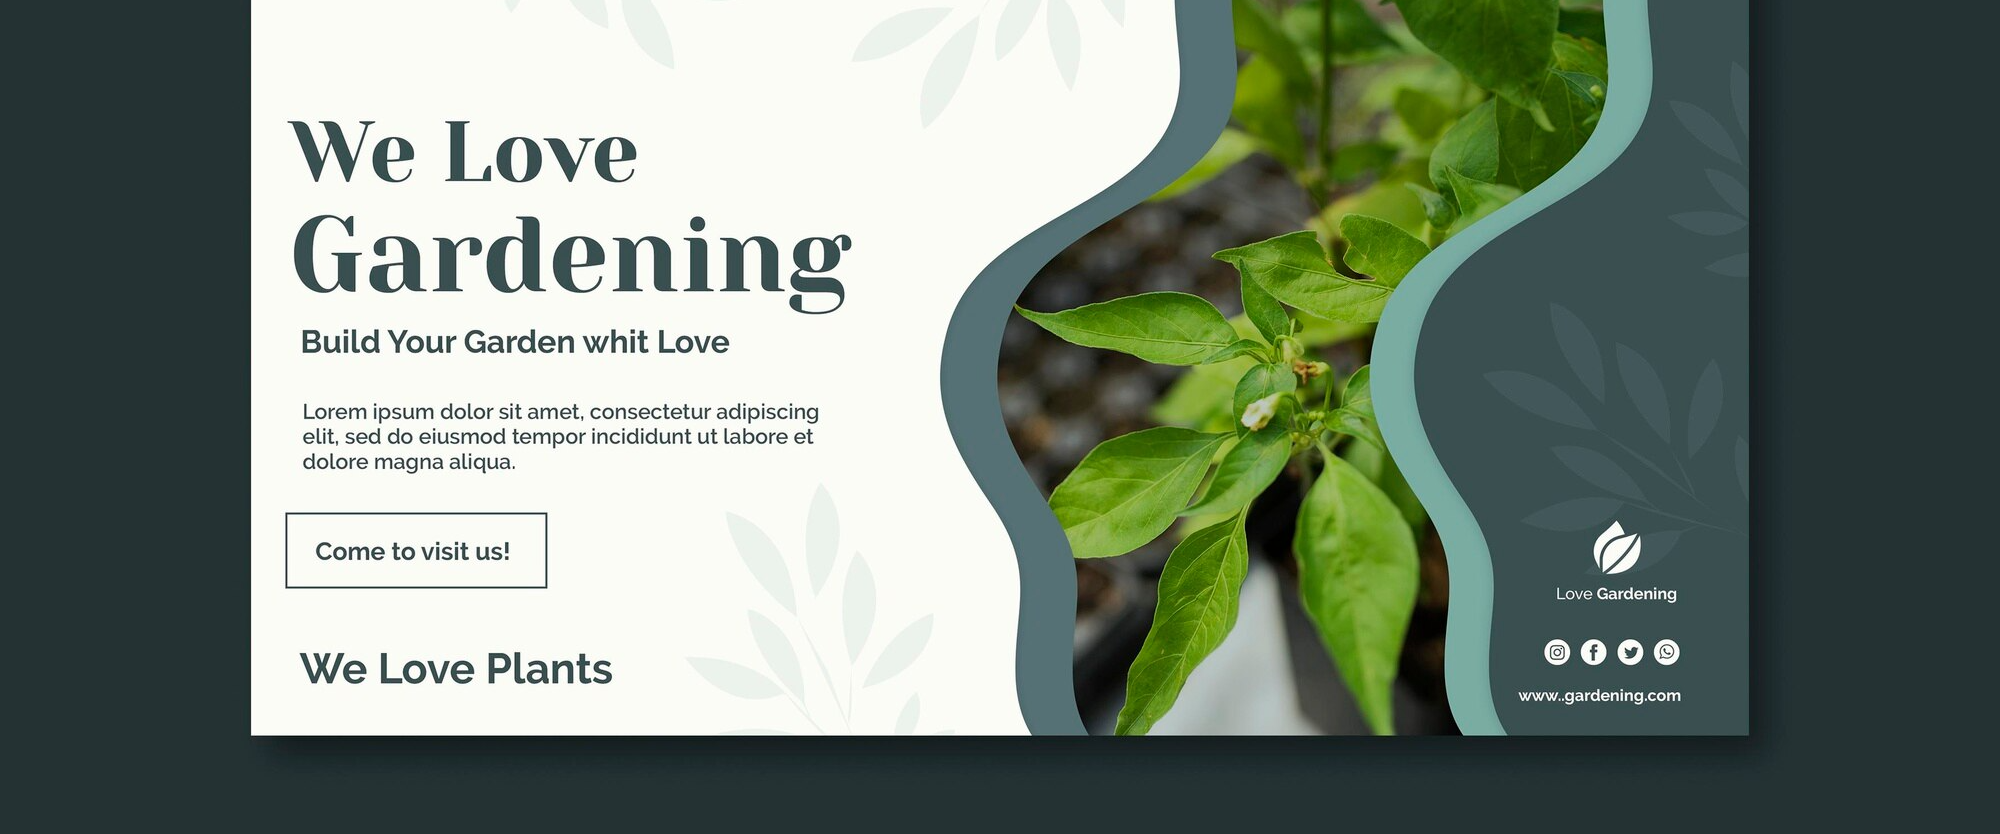
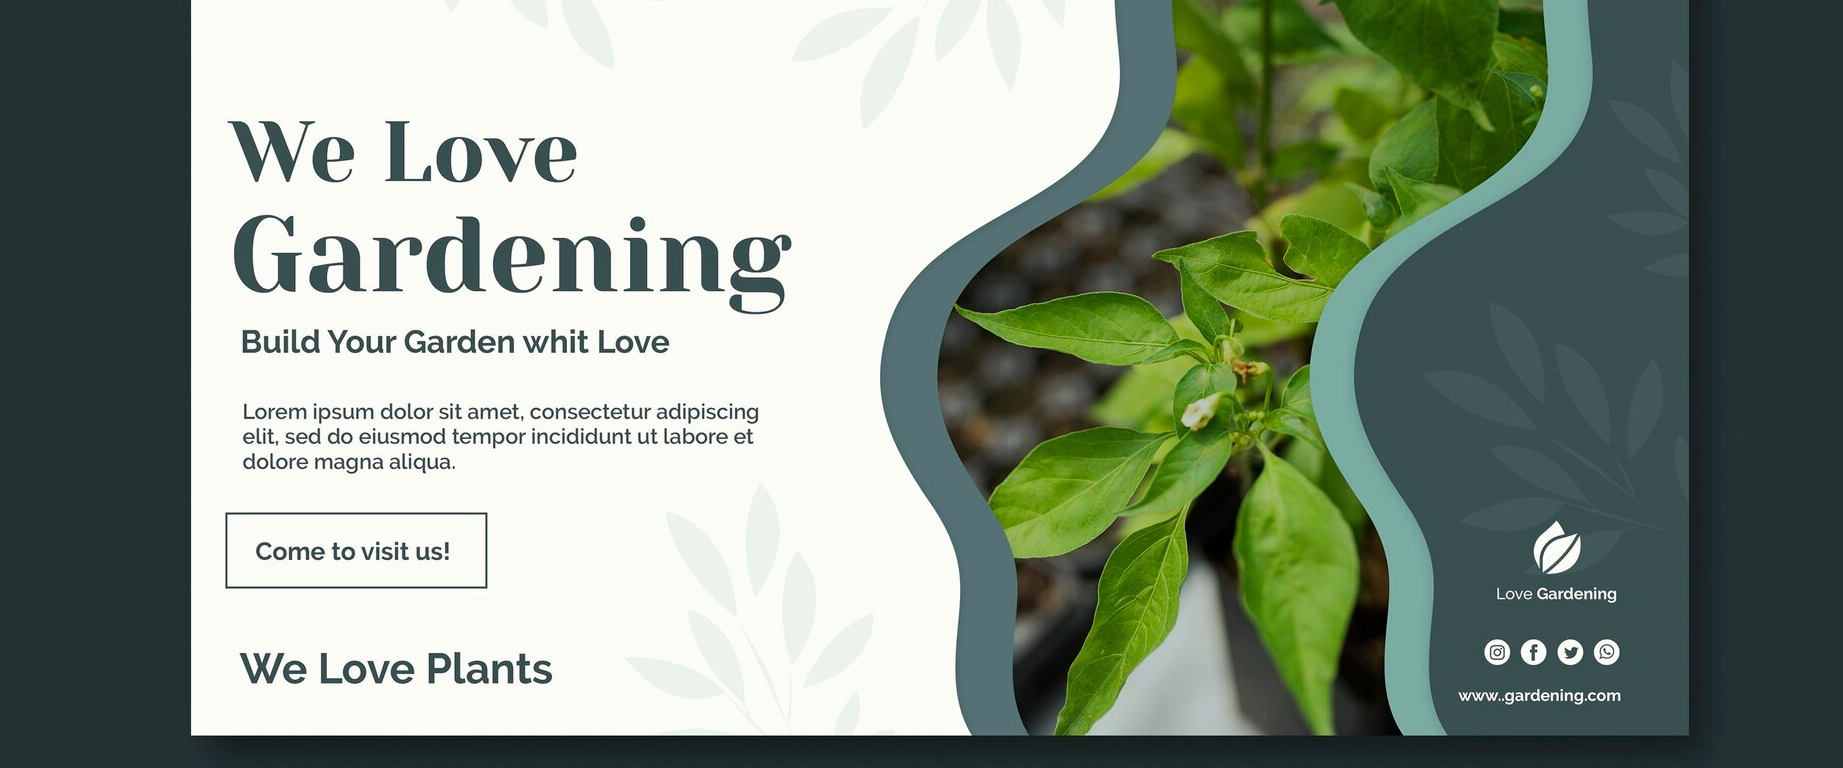
Updates

diff --git a/static/css/main.69ade28b.css b/static/css/main.69ade28b.css
@@ -1,0 +1,2 @@
+@media (max-width:768px){.navbar{align-items:flex-start;flex-direction:column;gap:10px;padding:15px}.nav-links{flex-wrap:wrap;gap:10px}.search{margin-top:10px;width:100%}.fullscreen-banner{height:100vh;object-fit:cover;object-position:center;width:100%}.service-cards{grid-template-columns:1fr}.gallery-grid{grid-template-columns:repeat(auto-fit,minmax(140px,1fr))}.contact-container{flex-direction:column}.contact-form,.contact-info{width:100%}.footer-content{font-size:13px}.brand-block{display:flex;flex-direction:column;line-height:1.2}.brand{color:#fff;font-size:18px;font-weight:700}.sub-brand{color:#a3f3b5;font-style:italic;margin-top:2px}.brand{font-size:16px}.sub-brand{font-size:12px}.search input{font-size:13px}.service-card{padding:20px}.contact-form button{width:100%}}.services{background:#eef9f1;padding:40px 20px}section:before{animation:fadeIn 1s ease-in;background:linear-gradient(90deg,#3cb371,#9be15d);border-radius:2px;content:"";display:block;height:4px;margin:0 auto 20px;width:60px}.about-us{background:#f0f9f3}.contact-section{background:#e6fff2}.gallery{background:#f8fff8}.service-card p{color:#333}.service-card:hover{box-shadow:0 4px 14px #00000026}.gallery-item{border-radius:12px;box-shadow:0 2px 8px #0000001a;overflow:hidden}html{scroll-behavior:smooth}.about-us{background-color:#f0f9f3;color:#1f2d2b;padding:60px 30px;text-align:center}.about-us h2{color:#2e5d3f;font-size:28px;margin-bottom:30px}.about-container{align-items:center;display:flex;flex-wrap:wrap;gap:30px;justify-content:center;margin:auto;max-width:1200px;text-align:left}.about-text{flex:1 1 500px;font-size:15px;line-height:1.8}.about-text h3{color:#2e5d3f;margin-top:20px}.about-image{flex:1 1 400px;text-align:center}.about-image img{border-radius:12px;box-shadow:0 4px 12px #0000001a;max-width:400px;width:100%}.contact-us{background-color:#f7fdf8}.contact-us h2{color:#2e5d3f}.contact-form,.contact-info{box-shadow:0 2px 12px #00000014}.contact-form h3,.contact-info h3{color:#1f2d2b}.contact-form form input,.contact-form form textarea{border:1px solid #ccc}.contact-form button:hover{background-color:#3a6f50}.contact-info p{color:#333;font-size:14px;margin:10px 0}.contact-us{background-color:#eafaf0;padding:60px 30px;text-align:center}.contact-us h2{color:#1f2d2b;font-size:28px;margin-bottom:40px}.contact-container{align-items:flex-start;display:flex;flex-wrap:wrap;gap:40px;justify-content:center;margin:auto;max-width:1100px;text-align:left}.contact-form,.contact-info{background-color:#fff;border-radius:12px;box-shadow:0 4px 14px #00000014;flex:1 1 450px;padding:30px}.contact-form h3,.contact-info h3{color:#2e5d3f;font-size:20px;margin-bottom:20px}.contact-form form input,.contact-form form textarea{background-color:#f6fff8;border:1px solid #c8e6ca;border-radius:8px;font-size:14px;margin-bottom:15px;padding:12px;width:100%}.contact-form button{font-size:14px;padding:12px 25px}.contact-form button:hover{background-color:#3b7a55}.contact-info ul{color:#333;font-size:15px;list-style:none;padding:0}.contact-info li{align-items:start;display:flex;line-height:1.5;margin-bottom:15px}.contact-info strong{color:#2e5d3f}.brand-wrapper{display:flex;flex-direction:column;line-height:1.2}.sub-brand{color:#a8e6b4}.about-us:after,.about-us:before,.gallery:after,.gallery:before,.services:after,.services:before{height:5px;width:80%}.about-us,.gallery,.services{animation:stripeMove 6s linear infinite;background:linear-gradient(135deg,#f1fdf5 25%,#e6f7ec 0,#e6f7ec 50%,#f1fdf5 0,#f1fdf5 75%,#e6f7ec 0,#e6f7ec);background-size:40px 40px;border-radius:18px;padding:60px 30px}@keyframes stripeMove{0%{background-position:0 0}to{background-position:40px 40px}}.section-title{color:#2e5d3f;display:inline-block;font-size:28px;margin-bottom:30px;position:relative}.section-title:after{animation:slideLine 2s ease-in-out infinite alternate;background-color:#3b7a55;content:"";display:block;height:4px;margin:8px auto 0;width:80px}@keyframes slideLine{0%{background-color:#85c8a0;width:60px}to{background-color:#2e5d3f;width:100px}}.about-us:after,.about-us:before,.gallery:after,.gallery:before,.services:after,.services:before{background:linear-gradient(90deg,#2e5d3f,#a8e6b4);border-radius:10px;content:"";display:block;height:4px;margin:20px auto;width:60%}.fade-in-up{animation:fadeUp 1s ease forwards;opacity:0;transform:translateY(20px)}@keyframes fadeUp{to{opacity:1;transform:translateY(0)}}@media (max-width:768px){.navbar{gap:10px;padding:15px 20px}.nav-links,.navbar{align-items:flex-start;flex-direction:column}.nav-links{gap:8px;padding:10px 0}.search{margin-top:10px;width:100%}.fullscreen-banner{height:auto;max-height:80vh;object-position:center top}.service-cards{grid-template-columns:1fr;padding:10px}.gallery-grid{gap:10px;grid-template-columns:repeat(auto-fit,minmax(130px,1fr));padding:10px}.gallery-item img{height:auto;object-fit:cover;width:100%}.contact-container{flex-direction:column;gap:20px;padding:10px}.contact-form,.contact-info{width:100%}.footer-content{font-size:12px;padding:15px}.brand{font-size:16px;text-align:center}.sub-brand{font-size:12px;text-align:center}.search input{font-size:14px;width:100%}.section-title{font-size:22px;text-align:center}.contact-form,.contact-info,.service-card{font-size:14px;padding:15px}}*{box-sizing:border-box;margin:0;padding:0}#root,body,html{font-family:Segoe UI,sans-serif}#root,.app,body,html{height:100%;width:100%}.hero-section{height:100vh}.fullscreen-banner{height:100%}.cropped{margin-top:-40px}.navbar{color:#fff;justify-content:space-between}.nav-left,.navbar{align-items:center;display:flex}.nav-left{gap:15px}.menu{cursor:pointer;font-size:24px}.nav-links{display:flex;gap:25px;list-style:none}.nav-links li a{color:#fff;font-size:15px;font-weight:500;text-decoration:none;transition:.3s ease}.nav-links li a:hover{color:#99e0b9}.search{align-items:center;background:#fff;border-radius:8px;display:flex;gap:6px;padding:5px 10px}.search input{background:#0000;border:none;font-size:14px;outline:none}.about{background-color:#e9f7ef;padding:60px 30px}.about-content{align-items:center;display:flex;flex-wrap:wrap;gap:30px;justify-content:space-between;margin:auto;max-width:1100px}.about-text{flex:1 1;min-width:300px}.about-image{flex:1 1;max-width:400px}.services{background-color:#f0f9f3;color:#1f2d2b;padding:60px 30px;text-align:center}.services h2{color:#2e5d3f;font-size:28px;margin-bottom:40px}.service-cards{grid-gap:25px;display:grid;gap:25px;grid-template-columns:repeat(auto-fit,minmax(260px,1fr));margin:auto;max-width:1100px}.service-card{background-color:#fff;border-radius:12px;box-shadow:0 2px 12px #00000014;padding:25px;text-align:left;transition:transform .3s ease}.service-card:hover{transform:translateY(-5px)}.service-card h3{color:#2a4f39;font-size:18px;margin-bottom:12px}.service-card p{font-size:14px;line-height:1.6}.gallery{background-color:#f7f9f5;padding:50px 30px;text-align:center}.gallery h2{color:#1f2d2b;font-size:28px;margin-bottom:20px}.gallery-grid{grid-gap:20px;display:grid;gap:20px;grid-template-columns:repeat(auto-fit,minmax(180px,1fr))}.gallery-item img{border-radius:12px;box-shadow:0 2px 8px #0000001a;height:100%;object-fit:cover;transition:transform .3s ease;width:100%}.gallery-item img:hover{transform:scale(1.05)}.contact{background-color:#e0f3eb;padding:60px 30px}.contact h2{color:#1f2d2b;font-size:28px;margin-bottom:30px;text-align:center}.contact-content{display:flex;flex-wrap:wrap;gap:30px;margin:auto;max-width:1000px}.contact-form,.contact-info{flex:1 1;min-width:300px}.contact-form input,.contact-form textarea{border:1px solid #ccc;border-radius:8px;font-size:14px;margin-bottom:12px;padding:10px;width:100%}.contact-form button{background-color:#2e5d3f;border:none;border-radius:8px;color:#fff;cursor:pointer;padding:10px 20px;transition:background .3s ease}.contact-form button:hover{background-color:#234e32}.footer{background-color:#1f2d2b;color:#fff;padding:30px 40px 20px;text-align:center}.footer-content{align-items:center;display:flex;flex-direction:column}.footer-content p{font-size:14px;margin-top:8px}.social-icons{margin:12px 0}.social-icons i{cursor:pointer;font-size:18px;margin:0 10px}.footer-content hr{border:1px solid #444;margin:20px auto;width:60%}.footer-content .copyright,.footer-content .design{color:#ccc;font-size:13px;margin:2px}.about-image{border-radius:12px;box-shadow:0 2px 12px #0000001a;width:100%}.fullscreen-banner{max-width:100%;object-position:top}@media (max-width:768px){.navbar{align-items:flex-start;padding:10px 20px}.nav-links,.navbar{flex-direction:column}.nav-links{background:#1f2d2be6;display:none;margin-top:10px;padding:10px 0;width:100%}.nav-links.active{display:flex}.nav-links li{margin:10px 0;padding-left:15px}.search{margin-top:10px}.search,.search input{width:100%}.menu{cursor:pointer;font-size:26px}}.fullscreen-banner{max-height:100vh}.hero-section{padding-top:60px}.fullscreen-banner{max-height:90vh}@media (max-width:768px) and (orientation:landscape){.hero-section{align-items:center;height:auto;justify-content:center;padding-top:20px}.fullscreen-banner{height:auto;max-height:80vh;object-fit:contain;object-position:center}.navbar{flex-direction:row;justify-content:space-between;padding:10px 20px;position:relative}.nav-links{display:flex;flex-wrap:wrap;justify-content:center;width:100%}}.about-us{margin-top:-40px;padding-top:30px}@media (max-width:1024px) and (orientation:landscape){.hero-section{align-items:stretch;display:flex;flex-direction:row;height:100vh}.banner-content{background:#1f2d2b99;display:flex;flex:1 1;flex-direction:column;justify-content:center;padding:20px;z-index:2}.fullscreen-banner{flex:2 1;height:100%;object-fit:cover;object-position:center;width:100%}.navbar{align-items:flex-start;background:#0000;padding:0}.nav-links,.navbar{flex-direction:column}.nav-links{gap:10px}.search{margin-top:15px;width:100%}.menu{display:none}.brand-block{margin-bottom:15px}.nav-left{align-items:flex-start;flex-direction:column;gap:10px}.hero-section{display:flex;flex-direction:row;height:100vh;overflow:hidden}.banner-content{background-color:#0006;color:#fff;display:flex;flex:1 1;flex-direction:column;justify-content:center;padding:20px;z-index:2}.fullscreen-banner{flex:2 1;height:100%;object-fit:cover;object-position:center;width:100%}.navbar{background:#0000;padding:0}.nav-left,.navbar{align-items:flex-start;flex-direction:column}.nav-left,.nav-links{margin-bottom:15px}.nav-links{flex-direction:column;gap:10px}.nav-links li{list-style:none}.nav-links li a{color:#fff;font-size:14px;text-decoration:none}.search{width:100%}.search input{border-radius:6px;font-size:14px;padding:8px;width:100%}.menu{display:none}.brand-block{margin-bottom:10px}.brand{color:#fff;font-size:16px;font-weight:700}.sub-brand{color:#a8e6b4;font-size:12px;font-style:italic}}@media screen and (max-width:920px) and (orientation:landscape){.hero-section{display:flex;flex-direction:column;height:100vh;justify-content:flex-start;padding-top:70px}.fullscreen-banner{height:auto;margin-top:20px;max-height:70vh;object-fit:contain;object-position:top;width:100%}.navbar{background:#00321ecc;left:0;padding:10px 20px;position:fixed;right:0;top:0;z-index:999}.nav-links{flex-wrap:wrap;justify-content:center;width:100%}.brand-block{align-items:flex-start}}@media (max-width:768px) and (orientation:landscape){.fullscreen-banner{height:100vh;object-fit:contain;object-position:top}.hero-section{height:auto;max-height:100vh}}.navbar{-webkit-backdrop-filter:blur(8px);backdrop-filter:blur(8px);background:#1f2d2bb3;padding:12px 30px;position:absolute;z-index:10}.fullscreen-banner{object-position:center}@media (max-width:768px) and (orientation:landscape){.fullscreen-banner{height:80vh;object-position:center top}.hero-section{height:auto;max-height:80vh}.navbar{position:relative}}.fullscreen-banner{background-color:#f0f9f3;height:100vh;object-fit:contain;object-position:center center}@media (max-width:768px) and (orientation:landscape){.fullscreen-banner{height:100vh;object-fit:contain;object-position:center}.hero-section{align-items:center;display:flex;height:auto;justify-content:center;padding:10px 0}.navbar{position:relative}}.hero-section{align-items:center;background-color:#eafaf0;display:flex;justify-content:center;padding-bottom:1000px;padding-top:50px}.fullscreen-banner,.hero-section{margin:0;padding:0}.about-us{margin-top:10px;padding-top:1rem}@media screen and (max-width:768px){.hero-section{margin-bottom:-10px;padding-bottom:0}.about-us{margin-top:0;padding-top:.5rem}}.navbar{background:#1f2d2bcc;padding:12px 20px}.hero-section{margin-top:60px}@media (max-width:768px){.hero-section{margin-top:60px}.fullscreen-banner{height:auto;object-fit:cover}}.hero-section{margin-top:70px}@media (max-width:768px){.hero-section{margin-top:80px}.fullscreen-banner{height:auto;object-fit:cover}}.navbar{background:#1f2d2bd9;z-index:999}.hero-section{padding-top:70px}.fullscreen-banner{object-position:top center}.navbar{background-color:#1f2d2bd9;position:fixed;top:0;width:100%;z-index:1000}@media screen and (max-height:500px) and (orientation:landscape){.hero-section{padding-top:70px}.navbar{background-color:#1f2d2be6;position:fixed;top:0;width:100%;z-index:999}.fullscreen-banner{height:calc(100vh - 70px);object-fit:cover;object-position:center top}}@media (max-width:768px){.hero-section{padding-top:80px}}@media screen and (max-width:950px) and (orientation:landscape){.navbar{background:#1f2d2bf2;flex-direction:row;flex-wrap:wrap;justify-content:space-between;padding:10px 20px;position:relative;z-index:100}.nav-left,.navbar{align-items:center;display:flex}.nav-left{gap:15px}.brand-block{display:flex;flex-direction:column;line-height:1.1}.brand{color:#fff;font-size:18px;font-weight:700}.sub-brand{color:#a3f3b5;font-size:12px;font-style:italic}.nav-links{display:flex;flex-direction:row;flex-wrap:nowrap;gap:18px;list-style:none;margin-left:auto}.nav-links li a{color:#fff;font-size:14px;font-weight:500;text-decoration:none;white-space:nowrap}.search{background:#fff;border-radius:8px;display:flex;gap:6px;margin-left:20px;padding:5px 10px}.search input{border:none;font-size:14px;outline:none}.fullscreen-banner{height:auto;margin-top:10px;object-fit:cover;object-position:top;width:100%}.menu{display:none}}.brand-block{display:flex;flex-direction:column;line-height:1.2}.brand{color:#fff;font-size:18px;font-weight:700;white-space:nowrap}.sub-brand{color:#a3f3b5;font-size:13px;font-style:italic;margin-top:2px}@media screen and (orientation:landscape) and (max-width:768px){.brand-horizontal{flex-direction:row;justify-content:flex-start}.brand,.sub-brand{font-size:15px}.fullscreen-banner{height:100vh;object-fit:contain;padding-top:20px}.navbar{background-color:#1f2d2bd9;position:relative;z-index:100}}.hero-section{height:auto;overflow:hidden;position:relative;width:100%}.fullscreen-banner{display:block;height:auto;object-fit:cover;object-position:center top;width:100%}@media (max-width:768px){.hero-section{padding-top:60px}.fullscreen-banner{height:auto;object-fit:cover}}
+/*# sourceMappingURL=main.69ade28b.css.map*/

diff --git a/index.html b/index.html
@@ -1,1 +1,1 @@
-<!doctype html><html lang="en"><head><meta name="viewport" content="width=device-width,initial-scale=1"/><meta charset="UTF-8"/><meta name="viewport" content="width=device-width,initial-scale=1"/><title>Gardening Landing Page</title><link rel="stylesheet" href="https://cdnjs.cloudflare.com/ajax/libs/font-awesome/6.5.0/css/all.min.css" crossorigin="anonymous" referrerpolicy="no-referrer"/><script defer="defer" src="/gardening-site/static/js/main.ec4e5e6c.js"></script><link href="/gardening-site/static/css/main.893fce99.css" rel="stylesheet"></head><body><div id="root"></div></body></html>
+<!doctype html><html lang="en"><head><meta name="viewport" content="width=device-width,initial-scale=1"/><meta charset="UTF-8"/><meta name="viewport" content="width=device-width,initial-scale=1"/><title>Gardening Landing Page</title><link rel="stylesheet" href="https://cdnjs.cloudflare.com/ajax/libs/font-awesome/6.5.0/css/all.min.css" crossorigin="anonymous" referrerpolicy="no-referrer"/><script defer="defer" src="/gardening-site/static/js/main.ec4e5e6c.js"></script><link href="/gardening-site/static/css/main.69ade28b.css" rel="stylesheet"></head><body><div id="root"></div></body></html>
